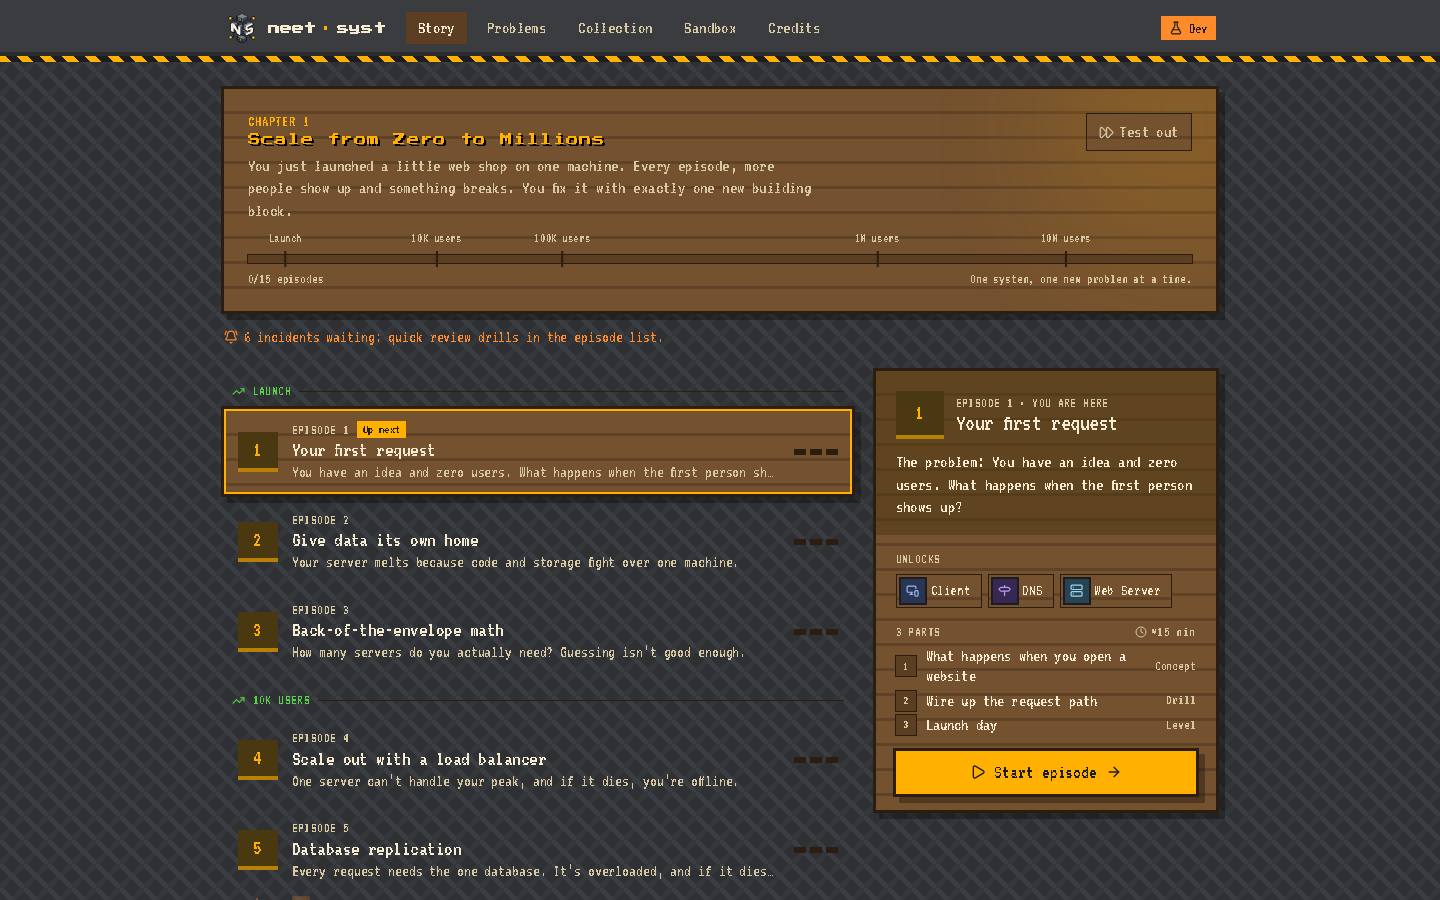
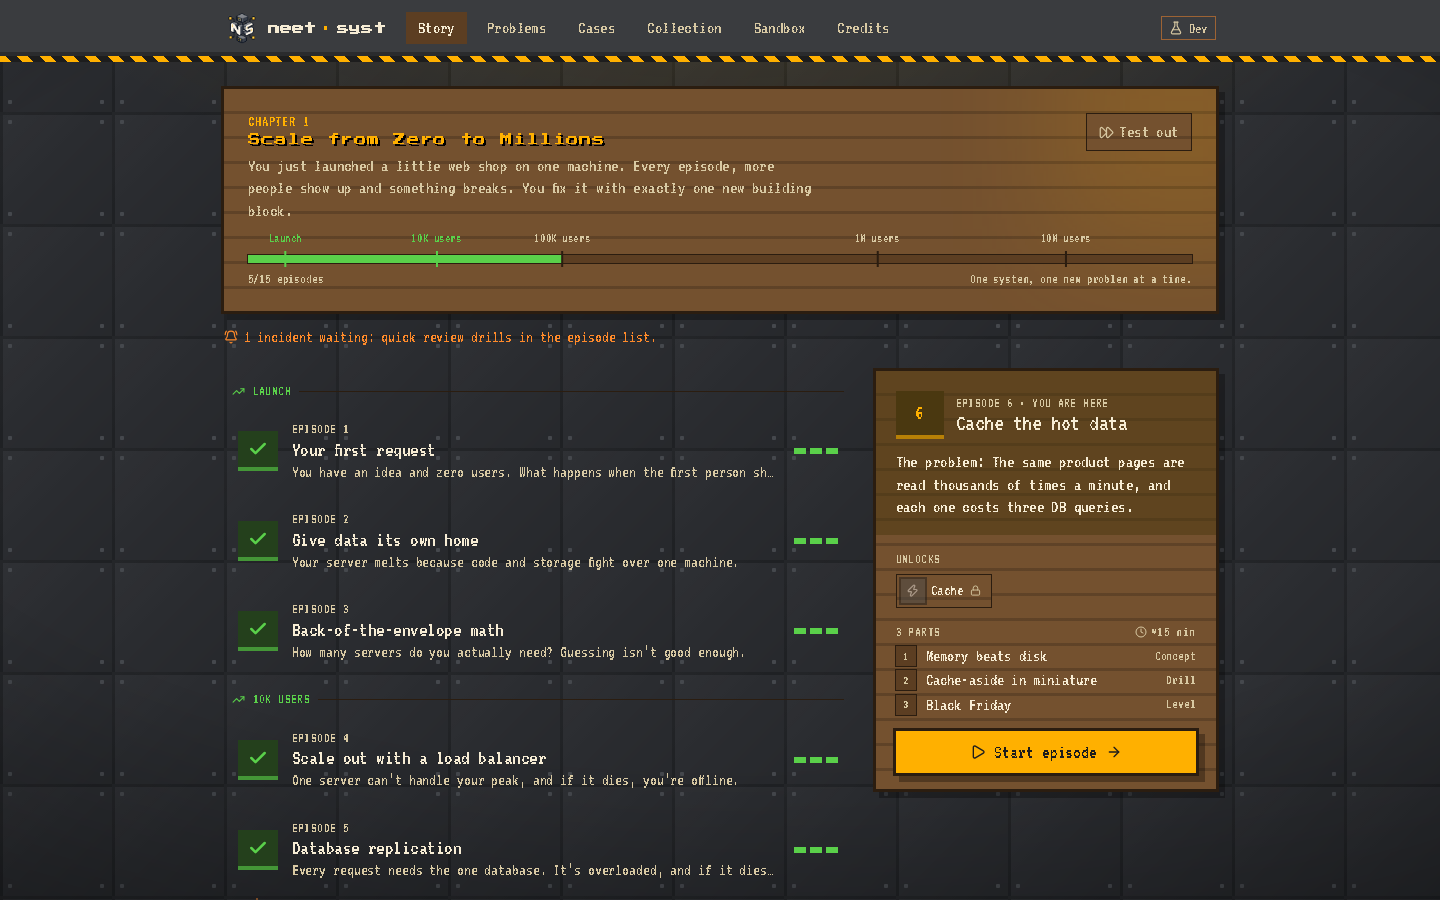
docs: refresh README screenshots and layout

diff --git a/README.md b/README.md
@@ -17,7 +17,9 @@ No blank canvas, no 40-box diagrams, no hand-waving.
 
 <br />
 
-<img src="docs/images/map.png" alt="The story map: a startup growth arc from 100 users to 10 million" width="860" />
+<img src="docs/images/map.png" alt="The story map: a startup growth arc from launch to 10 million users" width="860" />
+
+<sub><b>Story</b> · <b>Shifts</b> · <b>API design</b> · <b>Case studies</b> · <b>Problems</b> · <b>Sandbox</b></sub>
 
 </div>
 
@@ -41,6 +43,12 @@ Every episode runs the same three-part loop:
 
 Every decision you make is recorded on a **branching timeline**. Rewind, take the other path, and compare the two designs side by side.
 
+<div align="center">
+<img src="docs/images/lesson.png" alt="A lesson in progress: the Instagram deep dive after sharding Postgres, with the mentor dock and a passing run" width="860" />
+<br />
+<sub>A level mid-run: live traffic on every wire, load bars on every block, and the mentor in the dock below.</sub>
+</div>
+
 ## What's inside
 
 ### Story: startup growth arcs
@@ -50,6 +58,23 @@ Each chapter follows a startup from its first user to millions.
 - **Chapter 1, Scale from Zero to Millions:** 15 episodes, from "your first request" through databases, back-of-the-envelope estimation, load balancers, replication, caching, CDNs, stateless services, multi-region, queues, monitoring and sharding. It ends with two capstones (a URL shortener and Pastebin at 10M users) and a test-out checkpoint.
 - **Chapter 2, Design the API:** resources and versioning, idempotency, and pagination plus rate limits. Services carry real endpoints, and your API choices change what the simulation does (retries really do double-charge without an Idempotency-Key).
 - **Services and machine size:** rename any block, and size a service Small, Medium or Large. Learn when to scale up and when to scale out.
+
+### API design: endpoints that change the simulation
+
+Services carry real endpoints. You write them in a small editor (method, path, and promises like Idempotency-Key, pagination, login and rate limits), and **Check my API** grades them rule by rule. Stuck? **Show solution** fills in a correct answer.
+
+Ideas that aren't boxes on the canvas, like idempotency keys or cursor pagination, get their own cards. Some come with a click-through diagram, and every card stays in your Collection once you've learned it.
+
+<table>
+  <tr>
+    <td width="50%"><img src="docs/images/api.png" alt="The API card: three endpoints, two rules failing with an explanation of why" /></td>
+    <td width="50%"><img src="docs/images/idea.png" alt="The idempotency key card: a sequence diagram of a retried payment that is charged only once" /></td>
+  </tr>
+  <tr>
+    <td align="center"><sub>Every failing rule says what's wrong and why.</sub></td>
+    <td align="center"><sub>The idempotency key, one scene at a time.</sub></td>
+  </tr>
+</table>
 
 ### Shifts: boss fights
 
@@ -67,12 +92,24 @@ Eight standalone problems at easy, medium and hard, each with its own scenario a
 
 Instagram's photo feed (2010–2012) and Twitter's home timeline, worked through in interview order: scope, estimates, the API, the high-level design, then deep dives into what broke. After each decision, a side-by-side shows your design next to what the engineers actually shipped, both run through the same test, with links to their write-ups.
 
+<div align="center">
+<img src="docs/images/reveal.png" alt="How the experts did it: your design and Instagram's next to each other, both passing the same test" width="860" />
+</div>
+
 ### Sandbox: free build with what you've earned
 
 Only the blocks you've unlocked are available. The page shows your design's **breaking point**, meaning the most traffic it takes before 1% of requests fail, and which block gives out first. Kill any block to test failover. **Review** flags wiring mistakes and single points of failure right on the canvas. **Share** copies a link that carries the entire design.
 
 <div align="center">
-<img src="docs/images/sandbox.png" alt="Sandbox showing a design that breaks at 2,000 requests per second, with the first server to give out highlighted" width="860" />
+<img src="docs/images/sandbox.png" alt="Sandbox: a shared design with a breaking point of 5,000 requests per second and the first server to give out" width="860" />
+</div>
+
+### Collection: your building blocks
+
+Every block you unlock gets a card: what it does, when you'd reach for it, and the trade-offs. Locked ones tell you which episode earns them.
+
+<div align="center">
+<img src="docs/images/collection.png" alt="The collection: earned building blocks, locked ones with the episode that unlocks them, and the Ideas shelf" width="860" />
 </div>
 
 ### The simulation
@@ -97,18 +134,19 @@ npm run dev        # http://localhost:5173
 | `npm run lint` | oxlint |
 | `npm run build` | Type-check and production build |
 
-**Dev mode:** open `/?dev=1` (or tick "Dev mode" on the map in dev builds) and every lesson opens, with a **Skip section** button that completes the current section like an ideal learner. `/?dev=0` turns it off.
+> [!TIP]
+> **Want to look around without playing through?** Turn on **Debug mode** under Credits → Your data (or open `/?dev=1`). Every stage opens, and a **Skip section** button completes the current section like an ideal learner. `/?dev=0` turns it off.
 
 ## Project layout
 
 ```
 web/src/
   engine/     pure TS: sim solver + goals, lesson runner, API rules, timeline tree (unit tested)
-  content/    block catalog, chapters, problems, shifts (all typed data)
-  features/   canvas, mentor, timeline, lesson page, map, collection, sandbox, shift, api
+  content/    block catalog, chapters, problems, shifts, cases, ideas (all typed data)
+  features/   canvas, mentor, timeline, lesson, map, collection, sandbox, shift, api, cases, ideas
   store/      zustand stores (progress, runs) persisted through repo/
   repo/       storage interface, so a real backend can drop in later
-docs/         ROADMAP.md, CONTENT_GUIDE.md
+docs/         ROADMAP.md, CONTENT_GUIDE.md, images/
 ```
 
 **Stack:** React 19, TypeScript, Vite, Tailwind CSS 4, [React Flow](https://reactflow.dev) for the canvas, Zustand, Motion, Vitest and Playwright.
@@ -117,6 +155,8 @@ docs/         ROADMAP.md, CONTENT_GUIDE.md
 
 Progress lives in your browser's localStorage for now. Next up:
 
+- [x] Story chapters, shifts, problems and sandbox
+- [x] API design chapter and named services
 - [x] Case studies built on chapters 1 and 2
 - [ ] Accounts and sync (PocketBase)
 - [ ] AI mentor that sees your design and your timeline
